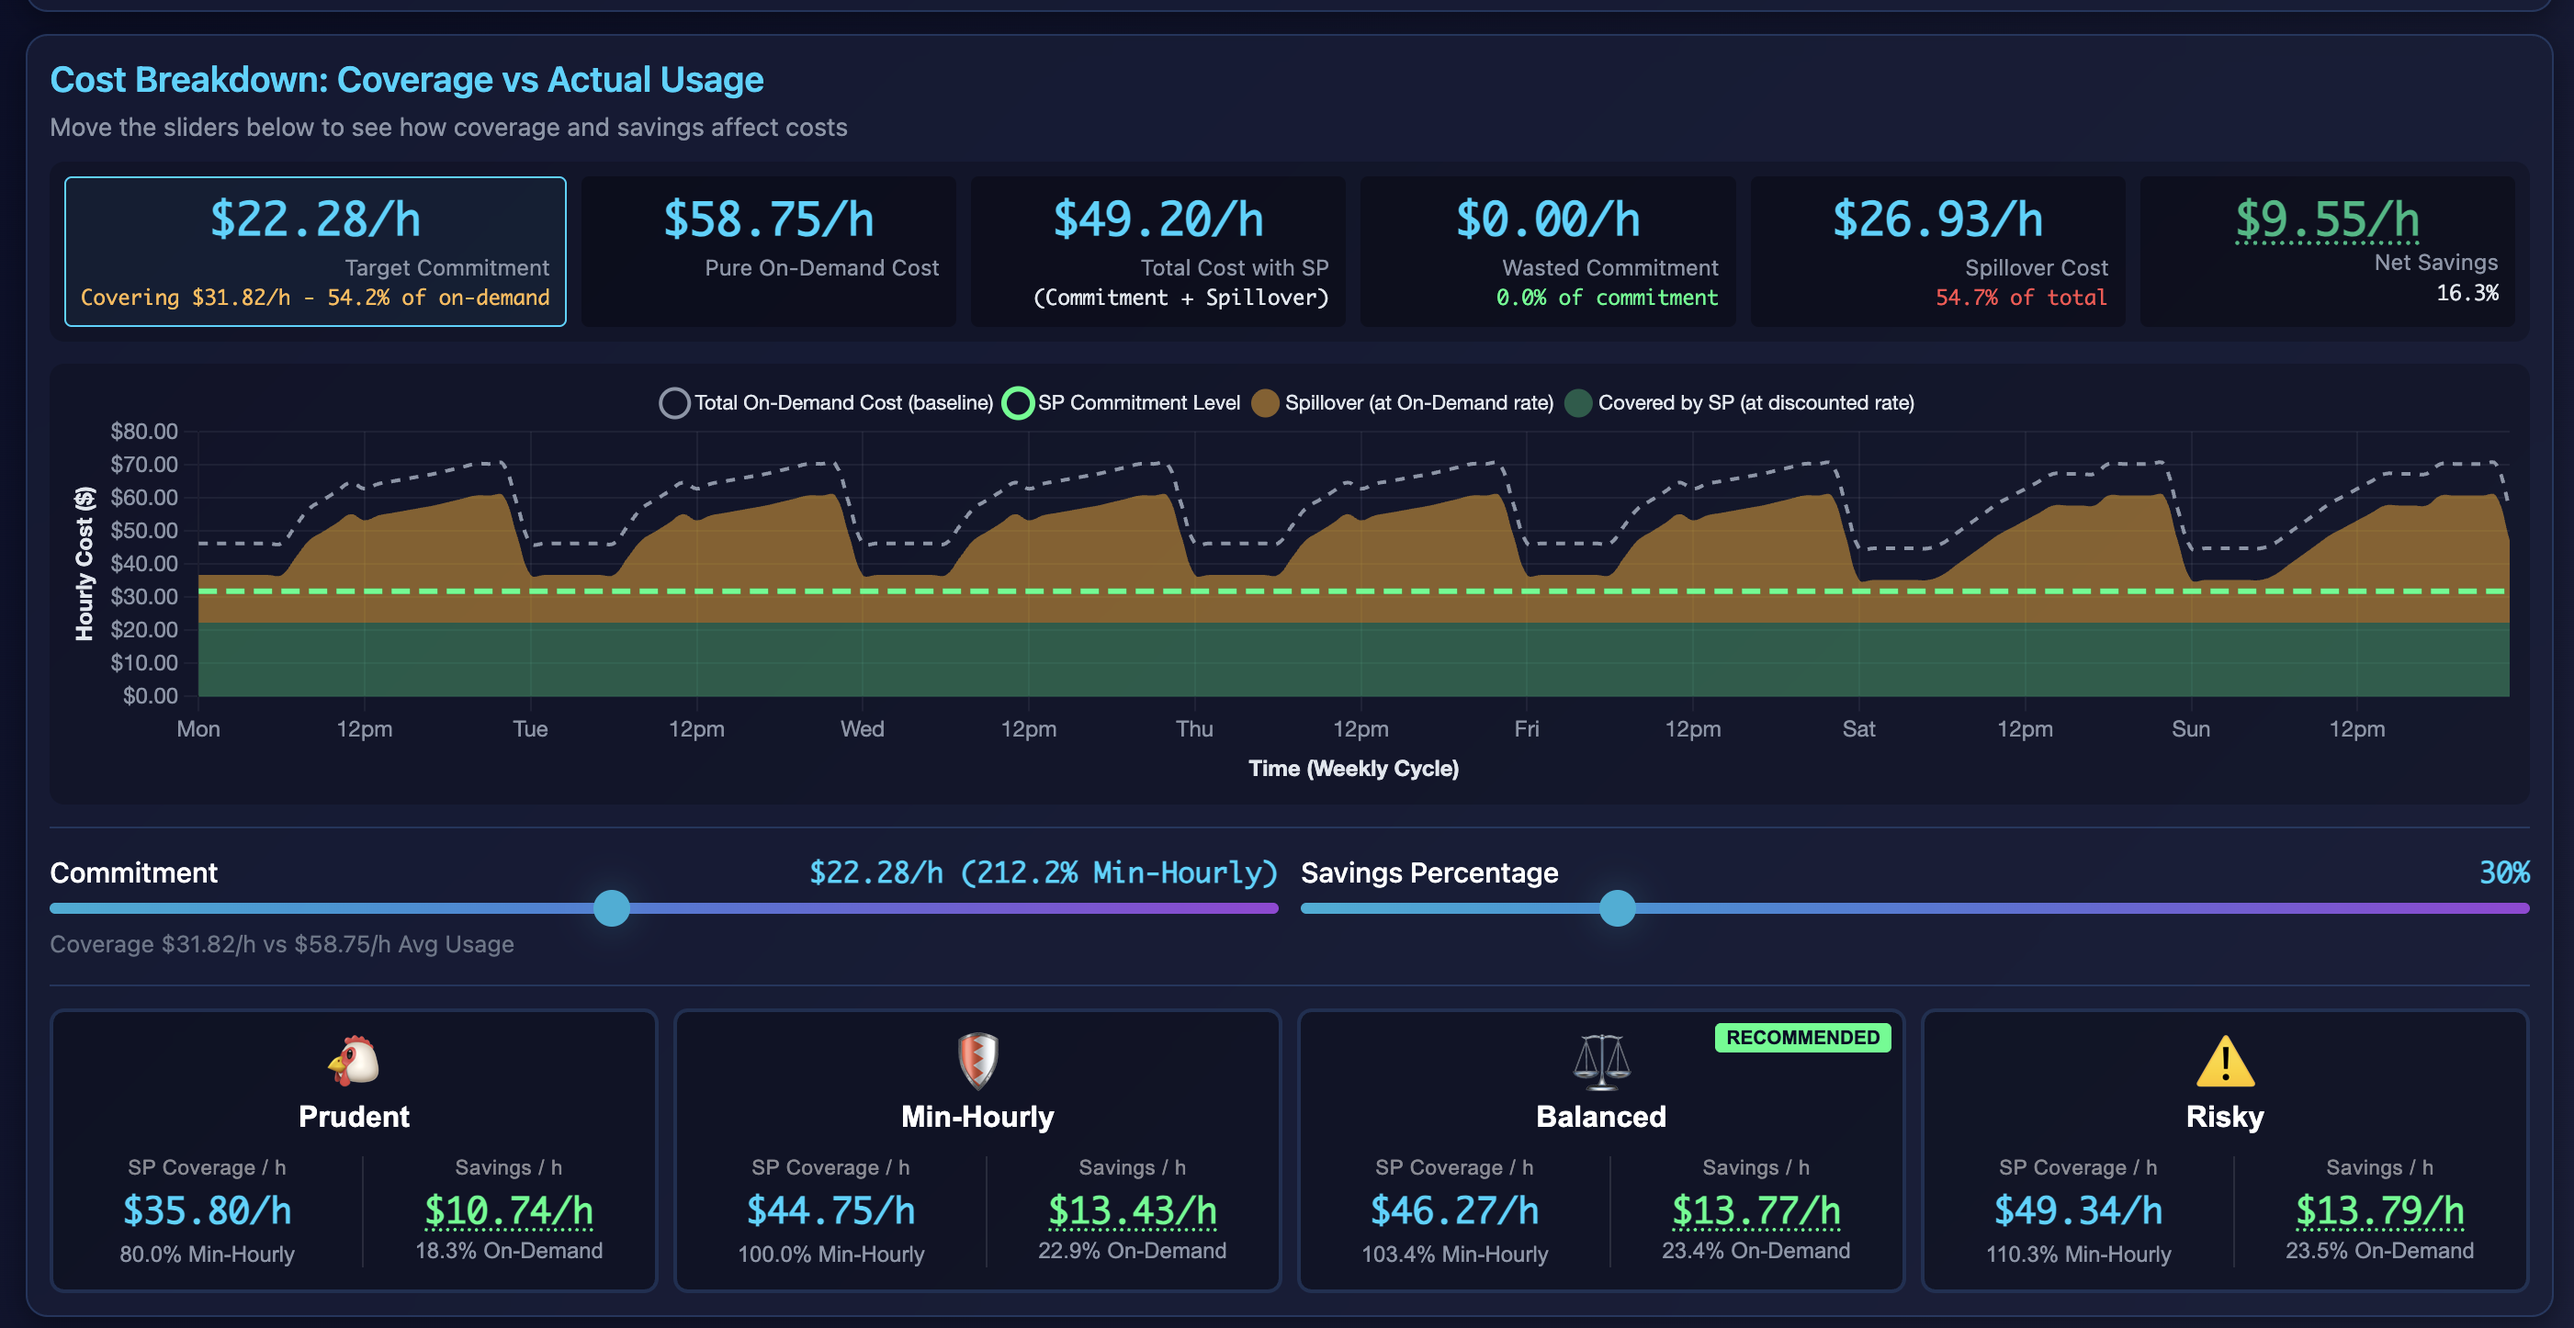
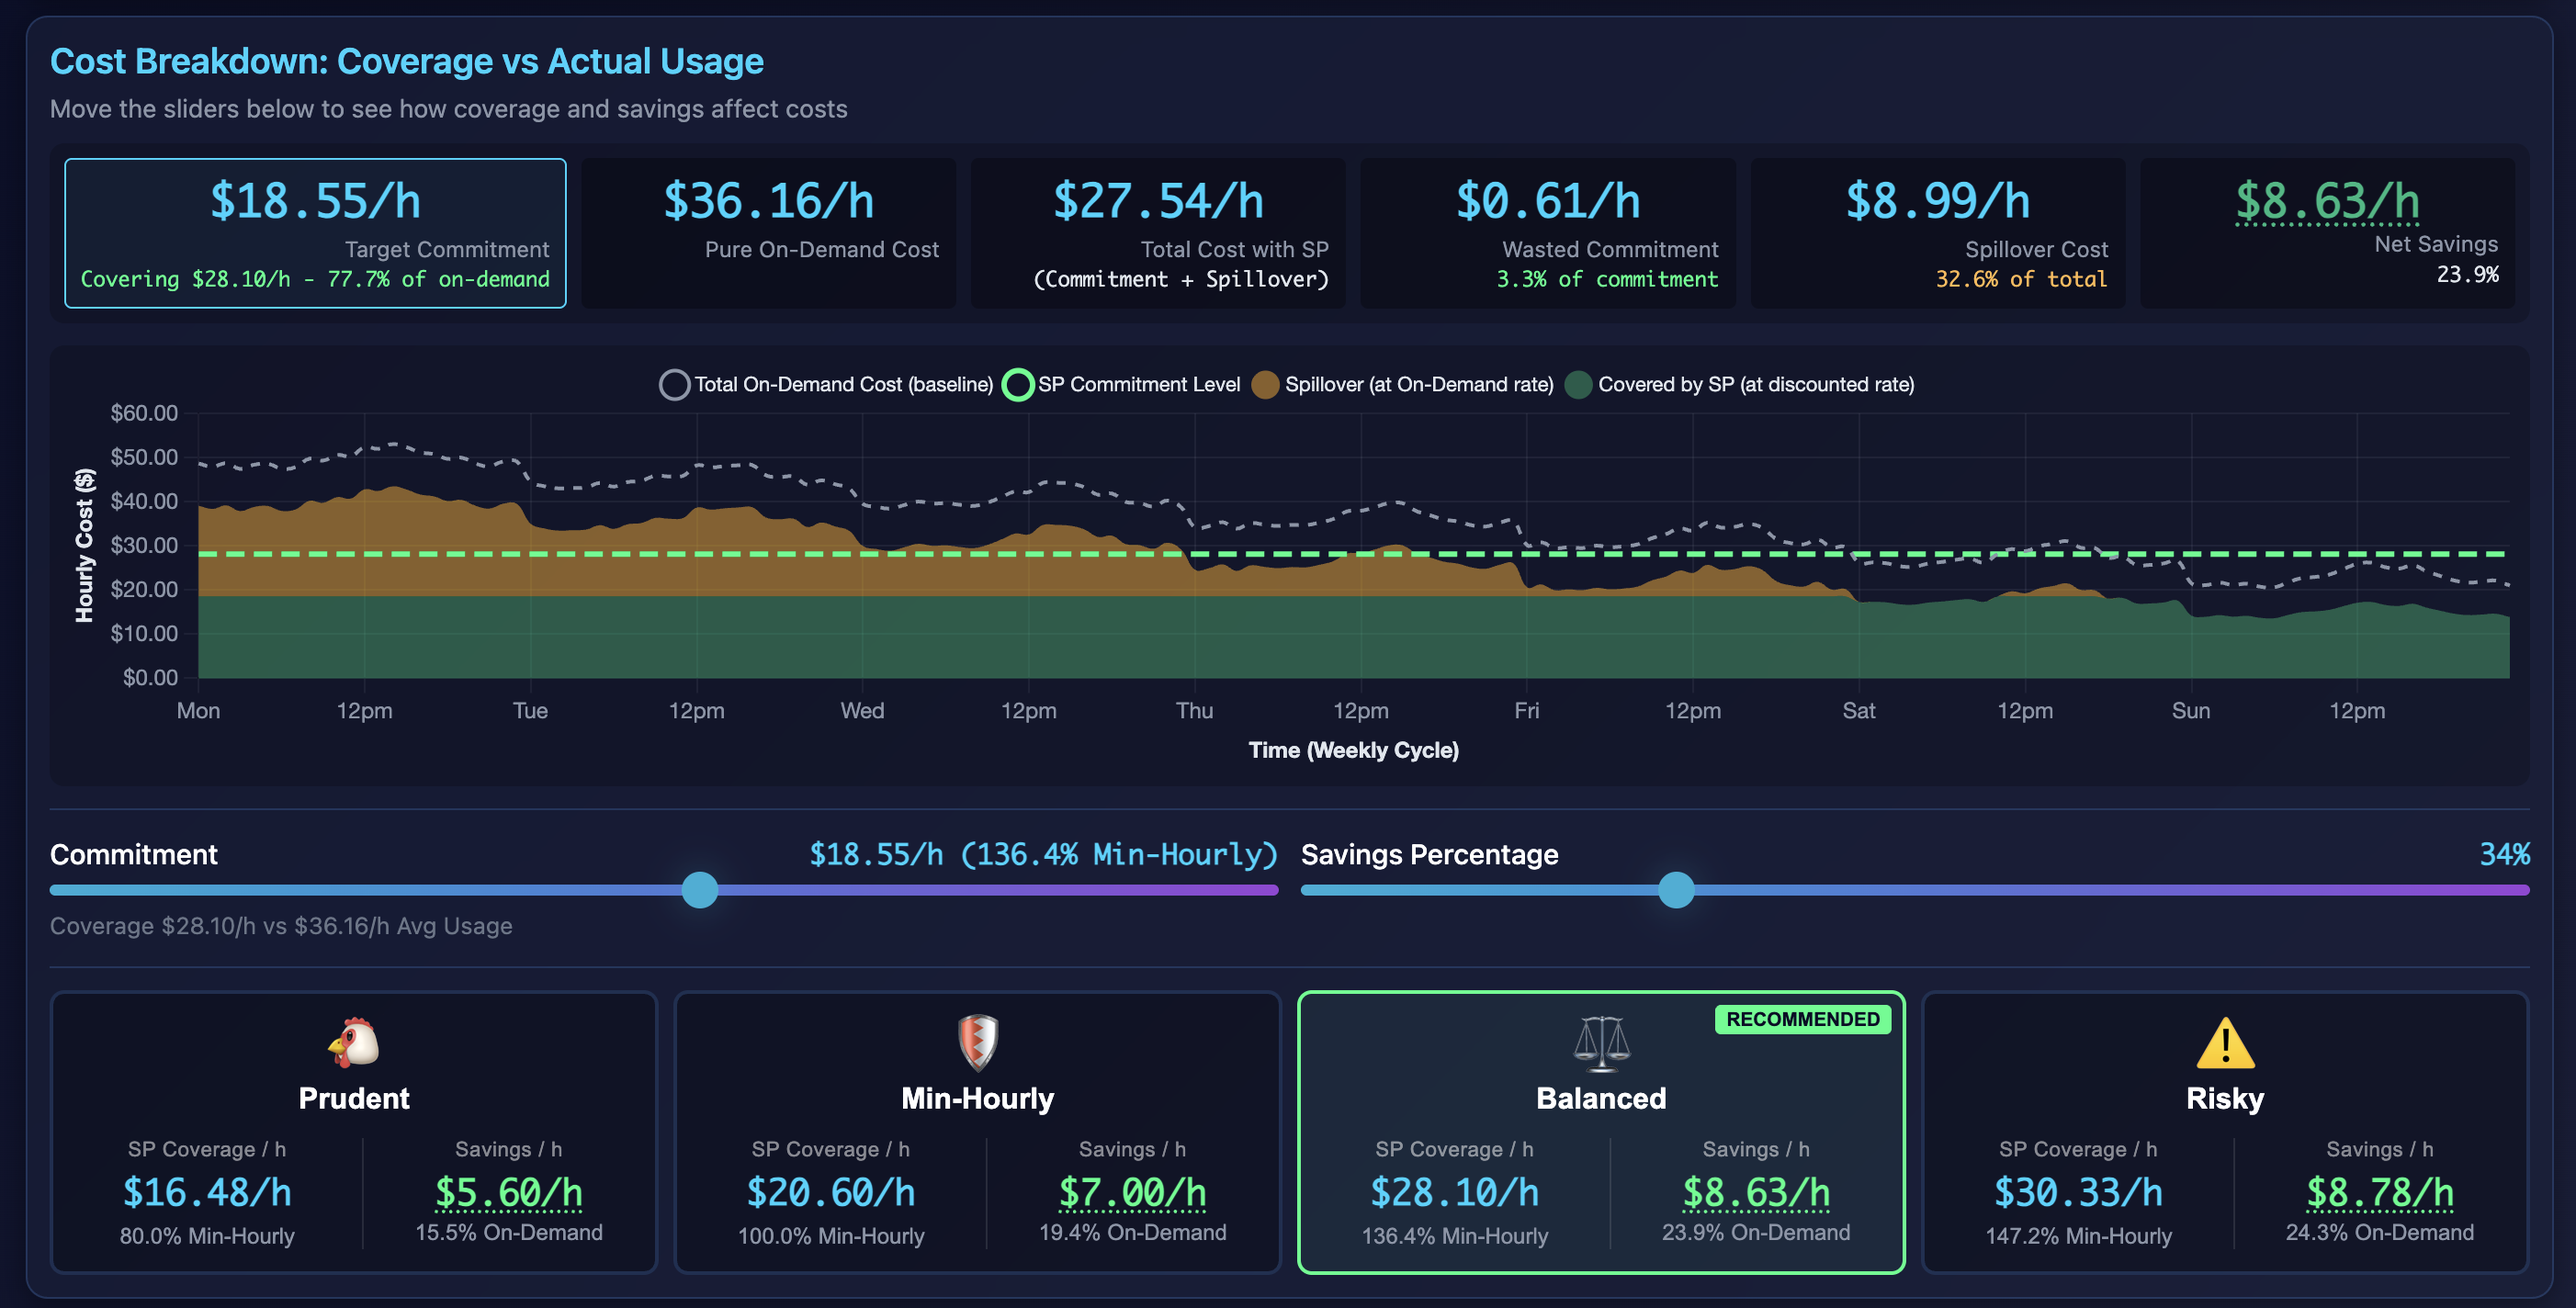
feat: move article to root and update content

diff --git a/medium.md b/medium.md
@@ -1,0 +1,106 @@
+# You Don't Know How to Use AWS Savings Plans
+
+I came to this realisation while building an open-source Terraform module to manage Savings Plans automatically. After 5 years managing Savings Plans and Reserved Instances for my firm, spending way too many hours on the AWS Console staring at recommendations and coverage reports, I had to admit I was making commitment decisions without understanding the full picture.
+
+And I'm pretty sure you are too.
+
+## The end of the RI era
+
+Reserved Instances offer significantly higher discounts in theory, but they lock you to a Region and Instance Class, and now that the RI Marketplace is gone you can't offload the ones you don't need. With Compute SPs (EC2, Lambda, Fargate) and now Database SPs (RDS, Aurora, DynamoDB, ElastiCache), the two biggest chunks of most AWS bills can be covered by Savings Plans. You trade a few percentage points for flexibility — no lock-in, no transition plans. You commit to a dollar-per-hour spend and AWS applies it wherever it can. The only transition plan you'll ever need is when you decide to get off AWS — but that's a different article.
+
+EC2 Instance Savings Plans offer 6 to 10 points more discount than Compute SPs, but lock you to a region and instance family, with the same lack of flexibility as RIs. They're much more complex to manage — arguably the kind of thing you'd need a provider for (more on that below). I like simple things, so I ignored them in this module.
+
+## The problem with AWS recommendations
+
+AWS Cost Explorer gives you a Savings Plans recommendation — one number, optimised for maximum savings over a lookback window. No usage distribution, no coverage percentage, no waste estimate, no way to set a target and work backwards. Just: "commit this much."
+
+And it's a one-shot decision. No notion of splitting purchases over time, no current coverage context, no way to build an ongoing strategy. You should never make your full commitment in a single purchase — but that's exactly what the recommendation is designed for.
+
+So when you need to answer real questions — "what if our load drops 20%?", "what's a safe commitment level?", "how bad is it if we don't use 100% of what we bought?" — you're on your own. You're committing 1 to 3 years of spending with incomplete information.
+
+## The outsourcing option
+
+You can hand the problem to a service provider. We tried this at limited scale — the people were great, pedagogical, and they delivered the savings they promised.
+
+But my main issue was that I could never really understand what they were doing. The mechanisms they use — RIs, convertible RIs, instance-level optimisations — are complex enough that you have to take their word for it. That complexity is also what justifies their commission. In the end, if you'd just used Compute SPs with a sound strategy, you'd likely end up in the same place, without the vendor fee and without the black box.
+
+And they need privileged access to your AWS account — billing data and purchasing APIs at minimum. For any organisation with a security review process, justifying that access is a hard sell when you could do it yourself.
+
+So I decided to do it myself.
+
+## What I built
+
+I started a project with Claude as my coding partner — every line of code in this module was written by AI, directed by 5 years of frustration with the AWS console. It turned into [terraform-aws-sp-autopilot](https://github.com/etiennechabert/terraform-aws-sp-autopilot), an open-source Terraform module that automates Savings Plans purchases with built-in strategy and safety.
+
+The module runs a set of Lambda functions on a schedule. But before talking about automation, let me start with what matters most: **visibility**.
+
+### The report you wish AWS gave you
+
+Every month, the module emails an HTML report that gives you what the console doesn't. For each SP type — Compute, Database, SageMaker — you get a stacked hourly usage chart showing how much of your spend is covered vs on-demand. You see the min, max, and distribution of your hourly usage. You see your current coverage and where the optimal commitment sits.
+
+At the bottom, a link opens an [interactive simulator](https://etiennechabert.github.io/terraform-aws-sp-autopilot/) pre-loaded with your actual usage data and the current AWS recommendation.
+
+### The simulator you dreamed about
+
+The simulator can also be used standalone. Pick a built-in workload pattern (e-commerce, flat, batch, business-hours, random) or paste your own data.
+
+![Workload Pattern & Cost Range](./medium/1.%20pattern-generator-loader.png)
+
+Then you see the cost breakdown. For any commitment level, the simulator shows how your spend splits between covered (discounted rate), spillover (still on-demand rate), and wasted commitment (hours where you pay for more than you use). Two sliders let you adjust the commitment amount and savings percentage in real time. When opened from the report, the current AWS recommendation is included so you can see where AWS would put you.
+
+One important detail: your savings percentage matters a lot, and you can't know yours until you have a first Savings Plan running. AWS recommendations for Database SPs assume around 20% — ours is actually 34.9%. Following the AWS recommendation with a 20% assumption would lead to a big overshoot. The simulator lets you plug in your real rate. Four strategy cards — Prudent, Min-Hourly, Balanced, Risky — give you reference points to compare.
+
+![Cost Breakdown: Coverage vs Actual Usage](medium/2.%20cost-breakdown.png)
+
+Below that, the savings-vs-commitment curve shows your net savings as a percentage of baseline cost, for every possible commitment level. Colour-coded: building to baseline, extra savings, declining savings, below baseline, losing money.
+
+This curve is unique to you. It depends on your load pattern and your actual savings percentage, which varies by AWS product, instance type, and region. Two organisations with the same spend but different usage patterns will have very different curves. This is probably what AWS computes behind the scenes for their recommendation — they just don't show you the curve.
+
+Look at how it flattens near the top. The last few percent of savings require much more commitment for less return. The sweet spot is almost never at the peak.
+
+![Savings vs Commitment Level](medium/3.%20Savings-Commitement-level.png)
+
+Now the big one: **what if our load drops?** The Load Factor slider lets you simulate a usage reduction — say -20% — and the whole curve recalculates.
+
+This changed how I think about commitment. I used to believe you should keep a safe gap between your commitment and your min-hourly to avoid wasting money. The simulator showed me the opposite: being too cautious is actually how you waste money. When your load drops moderately, your spillover goes down while your wasted commitment stays small — you pay less overall. You only start losing when the drop is large enough that usage falls below your commitment.
+
+The safety buffer already exists naturally — that's what the curve declining after the optimal point shows. You don't need to add one yourself. And this is even more true if you distribute purchases over time: every month you have plans expiring that you can simply choose not to renew.
+
+![Savings vs Commitment Level — with a -20% load drop](medium/4.%20Load-drop.png)
+
+### The automation
+
+Once you have visibility and understand your usage, the automation is simple:
+
+**A Scheduler** checks your current coverage via Cost Explorer, picks a purchase amount based on your strategy, and queues a purchase intent to SQS. Nothing is bought yet. It sends an email with what it plans to buy, inviting your team to review.
+
+**A Review Window** — up to 14 days — lets you inspect or cancel queued purchases before they go through.
+
+**A Purchaser** processes the queue, checks against your safety caps, and executes.
+
+The module ships with three strategies. My recommended one:
+
+- **Dichotomy**: exponential halving — starts big, slows as you approach the target. Over time your purchases get smaller, which means if your load drops you naturally adapt: you just buy less next month, or skip entirely. And when the first big purchases expire, they get replaced by smaller ones — your commitment gradually becomes more distributed and easier to adjust.
+
+The other two:
+
+- **Fixed**: buys a constant percentage each cycle, ramping linearly to your target. Predictable, easy to explain to finance.
+- **Follow-AWS**: uses the AWS recommendation directly. Simple, but be careful — it can be aggressive.
+
+You set **hard caps** — a max coverage ceiling and a max purchase per cycle — so the automation can never over-commit. Commitments are spread over time, not made in one shot. And there's a dry-run mode to watch what it would do before it spends anything.
+
+## Why I'm sharing this
+
+I built this module on my own time so I could open-source it. I wanted anyone dealing with the same frustrations to be able to use it.
+
+The module is deployed at my firm — we're using the reporter and simulator today, and testing the scheduler in dry-run before turning on automated purchases. It took an AI to write the code, but the hard part was understanding the problem — and that took years of getting it wrong.
+
+If you manage Savings Plans today, start with the [simulator](https://etiennechabert.github.io/terraform-aws-sp-autopilot/) — plug in your numbers and see where you stand. Then deploy the module with just the reporter to get monthly visibility on your actual coverage. Add the scheduler when you're ready to automate the decision. The purchaser is the last step, and honestly, it's optional — some teams prefer to keep that button manual, and that's fine.
+
+You might discover, like I did, that you've been either too cautious or too blind. Both cost money.
+
+---
+
+*[terraform-aws-sp-autopilot](https://github.com/etiennechabert/terraform-aws-sp-autopilot) is open-source and on the Terraform Registry. Contributions and feedback welcome.*
+
+*I'm always interested in discussing FinOps challenges — feel free to reach out if you want to chat about Savings Plans strategy or cloud cost optimisation in general.*
